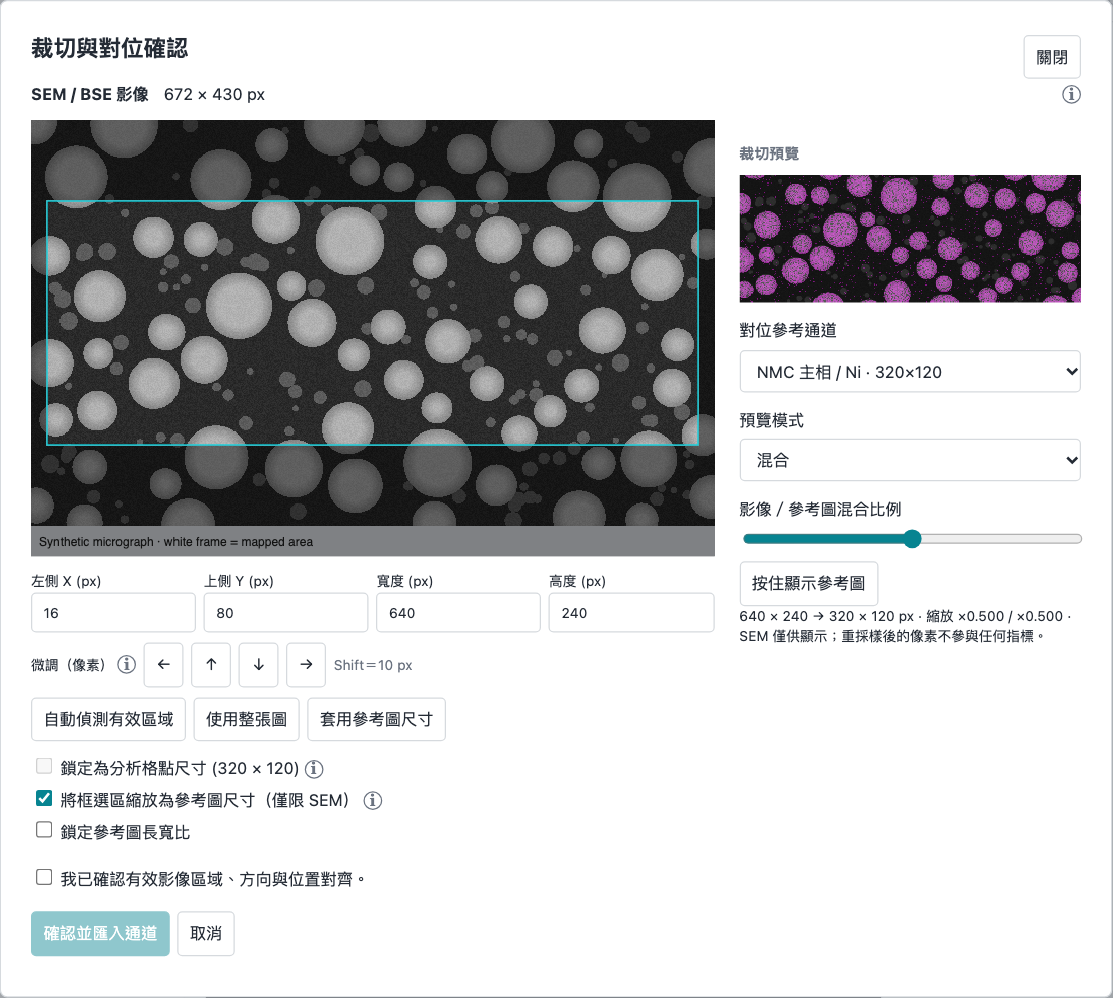
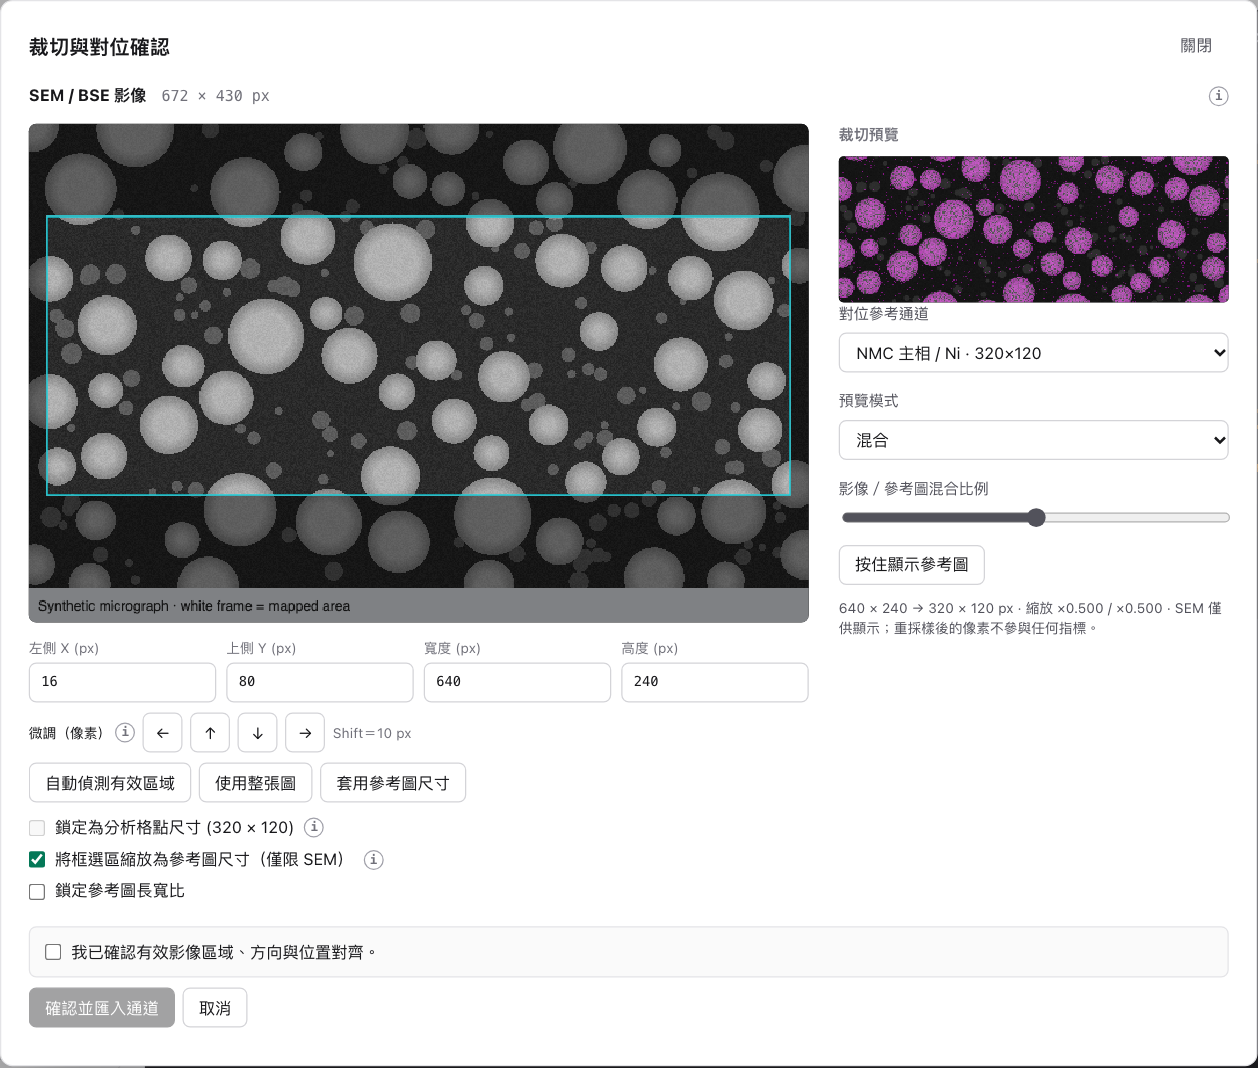
v0.4.0: documentation, screenshots and version
README describes the element tabs, the trend charts, the optional secondary
phase and the new places of the project and example actions; screenshots
regenerated from synthetic data, now with a carbon map. CHANGELOG,
algorithms, requirement updates and validation record v0.4.0.

diff --git a/dist/Electrode_EDS_Analyzer.html b/dist/Electrode_EDS_Analyzer.html
@@ -1199,6 +1199,10 @@ dialog h2 {
   font-size: 11px;
   color: var(--ink-3);
 }
+.crop-coordinates input,
+.crop-scale input {
+  color: var(--ink);
+}
 .crop-coordinates input {
   width: 100%;
   min-width: 0;
@@ -2245,6 +2249,8 @@ const HELP_ZH = {
     'SEM 只當底圖，不參與任何計算，所以可以縮放。請框出元素圖實際掃描的範圍（例如標示 Map Data 的白框），工具會把它縮放成與元素圖相同的尺寸。分析用影像永遠不縮放。',
   lockSize:
     '所有通道必須是相同的像素尺寸才能計算。勾選時裁切框固定為已載入影像的尺寸，拖曳只移動位置。只有要重新決定整組尺寸時才取消勾選。',
+  carbon:
+    'C 遮罩佔分析範圍的面積比例。注意 C 訊號不只來自導電碳：PVDF 黏結劑與 LFP 的碳包覆也含碳，判讀導電碳分散時請一併參考 F 與次要相的分布。',
   comparison:
     '把目前的結果加入比較表，換下一個樣品分析後再加入。比較表可以填入剝離強度等實驗值，並匯出 CSV。',
 };
@@ -2513,6 +2519,8 @@ HELP_EN.semFit =
 HELP_EN.lockSize =
   'Every channel must have the same pixel size before anything can be computed. While ticked, the crop box is fixed at the size of the analysis channels already loaded and dragging only moves it, so channels cannot end up a pixel or two apart. Untick only to redefine the size for the whole set.';
 Object.assign(HELP_EN, {
+  carbon:
+    'Share of the analysed area covered by the C mask. C counts do not come from conductive carbon alone: PVDF binder and the carbon coating of LFP contain carbon too, so read carbon dispersion together with the F and secondary-phase maps.',
   area: 'Mask pixels divided by the pixels of the analysed area: the share of the image the element covers.',
   profileCV:
     'Cells in the same column (or row) are pooled into one share, and the columns (or rows) are compared. A large column spread means left and right differ; a large row spread means top and bottom differ, which on a cross section is the change through the thickness.',
@@ -3644,7 +3652,7 @@ if (typeof module !== 'undefined')
   };
 
 /* Shared application state, defaults and constants. */
-const VERSION = '0.3.0';
+const VERSION = '0.4.0';
 const { ANALYSIS_KEYS, MAX_PIXELS, GRID_OPTIONS } = Core;
 const $ = s => document.querySelector(s),
   esc = s =>
@@ -4012,6 +4020,7 @@ function renderChannels() {
       ? selected
       : Object.keys(state.channels)[0] || '';
   $('#dimensions').textContent = dimensions() ? `${dimensions().w} × ${dimensions().h} px` : '';
+  $('#channel').classList.toggle('hidden', !Object.keys(state.channels).length);
   renderElementChips();
   renderNotice();
 }
@@ -5043,7 +5052,7 @@ function wholeRegionFigures(r, key) {
   const e = r.elements[key],
     spread = `${kpi('Uniformity CV', fmt(e.uniformityCV), { help: 'cv', note: 'Cell-to-cell spread; lower is more even.' })}<div class="kpi-pair">${kpi('Column CV', fmt(e.columnCV), { help: 'profileCV', note: 'Left to right' })}${kpi('Row CV', fmt(e.rowCV), { help: 'profileCV', note: 'Top to bottom' })}</div>`;
   let html = kpi('Area fraction', fmt(e.areaFraction, true), {
-    help: key === 'secondary' ? 'secondary' : 'area',
+    help: { secondary: 'secondary', f: 'area', c: 'carbon' }[key],
     note: 'Share of the analysed area.',
     hero: true,
   });
@@ -5261,9 +5270,13 @@ function drawTrend(figure, c, scale, key, n) {
     };
   });
 }
+// A fitted image is fitted again to the new window, and the charts take the new width.
 addEventListener('resize', () => {
   clearTimeout(renderTrends.timer);
-  renderTrends.timer = setTimeout(renderTrends, 120);
+  renderTrends.timer = setTimeout(() => {
+    if ($('#zoom').value === 'fit') fit();
+    renderTrends();
+  }, 120);
 });
 
 /* Session snapshot, validation and reload. */

diff --git a/src/ui/i18n.js b/src/ui/i18n.js
@@ -183,6 +183,8 @@ const HELP_ZH = {
     'SEM 只當底圖，不參與任何計算，所以可以縮放。請框出元素圖實際掃描的範圍（例如標示 Map Data 的白框），工具會把它縮放成與元素圖相同的尺寸。分析用影像永遠不縮放。',
   lockSize:
     '所有通道必須是相同的像素尺寸才能計算。勾選時裁切框固定為已載入影像的尺寸，拖曳只移動位置。只有要重新決定整組尺寸時才取消勾選。',
+  carbon:
+    'C 遮罩佔分析範圍的面積比例。注意 C 訊號不只來自導電碳：PVDF 黏結劑與 LFP 的碳包覆也含碳，判讀導電碳分散時請一併參考 F 與次要相的分布。',
   comparison:
     '把目前的結果加入比較表，換下一個樣品分析後再加入。比較表可以填入剝離強度等實驗值，並匯出 CSV。',
 };
@@ -451,6 +453,8 @@ HELP_EN.semFit =
 HELP_EN.lockSize =
   'Every channel must have the same pixel size before anything can be computed. While ticked, the crop box is fixed at the size of the analysis channels already loaded and dragging only moves it, so channels cannot end up a pixel or two apart. Untick only to redefine the size for the whole set.';
 Object.assign(HELP_EN, {
+  carbon:
+    'Share of the analysed area covered by the C mask. C counts do not come from conductive carbon alone: PVDF binder and the carbon coating of LFP contain carbon too, so read carbon dispersion together with the F and secondary-phase maps.',
   area: 'Mask pixels divided by the pixels of the analysed area: the share of the image the element covers.',
   profileCV:
     'Cells in the same column (or row) are pooled into one share, and the columns (or rows) are compared. A large column spread means left and right differ; a large row spread means top and bottom differ, which on a cross section is the change through the thickness.',

diff --git a/src/app/results.js b/src/app/results.js
@@ -25,7 +25,7 @@ function wholeRegionFigures(r, key) {
   const e = r.elements[key],
     spread = `${kpi('Uniformity CV', fmt(e.uniformityCV), { help: 'cv', note: 'Cell-to-cell spread; lower is more even.' })}<div class="kpi-pair">${kpi('Column CV', fmt(e.columnCV), { help: 'profileCV', note: 'Left to right' })}${kpi('Row CV', fmt(e.rowCV), { help: 'profileCV', note: 'Top to bottom' })}</div>`;
   let html = kpi('Area fraction', fmt(e.areaFraction, true), {
-    help: key === 'secondary' ? 'secondary' : 'area',
+    help: { secondary: 'secondary', f: 'area', c: 'carbon' }[key],
     note: 'Share of the analysed area.',
     hero: true,
   });
@@ -243,7 +243,11 @@ function drawTrend(figure, c, scale, key, n) {
     };
   });
 }
+// A fitted image is fitted again to the new window, and the charts take the new width.
 addEventListener('resize', () => {
   clearTimeout(renderTrends.timer);
-  renderTrends.timer = setTimeout(renderTrends, 120);
+  renderTrends.timer = setTimeout(() => {
+    if ($('#zoom').value === 'fit') fit();
+    renderTrends();
+  }, 120);
 });

diff --git a/src/app/shell.js b/src/app/shell.js
@@ -106,6 +106,7 @@ function renderChannels() {
       ? selected
       : Object.keys(state.channels)[0] || '';
   $('#dimensions').textContent = dimensions() ? `${dimensions().w} × ${dimensions().h} px` : '';
+  $('#channel').classList.toggle('hidden', !Object.keys(state.channels).length);
   renderElementChips();
   renderNotice();
 }

diff --git a/src/styles.css b/src/styles.css
@@ -1199,6 +1199,10 @@ dialog h2 {
   font-size: 11px;
   color: var(--ink-3);
 }
+.crop-coordinates input,
+.crop-scale input {
+  color: var(--ink);
+}
 .crop-coordinates input {
   width: 100%;
   min-width: 0;

diff --git a/docs/validation.md b/docs/validation.md
@@ -1,6 +1,6 @@
 # Validation
 
-最新驗證見文末「v0.2.0」。以下各節依版本保留原始紀錄；其中引用的 `/workspace/...` 路徑屬當時的建置環境，未隨交接包提供。
+最新驗證見文末「v0.4.0」。以下各節依版本保留原始紀錄；其中引用的 `/workspace/...` 路徑屬當時的建置環境，未隨交接包提供。
 
 ## v0.1.0
 
@@ -141,3 +141,15 @@ Intentional deviations：使用可追溯合成影像與真实計算 KPI，未使
 `tests/browser/legacy-session.cjs`：v0.1.3 的 Session 載入後平均半徑為 0，v0.1.3 回報的所有數值不變（每格新增的欄位另行檢查）。其餘腳本改為三步驟流程；`imports.cjs` 的數值基準在關閉平均後與原值相同。
 
 真實樣本走查（不納入版控）：Fe／Ni／F／C 四張報表圖的比例尺皆被找到（52 px），輸入 25 μm 得 0.4808 μm/pixel；Ni 遮罩覆蓋率 58.9%，與 SEM 顆粒位置相符；分析、網格與點格顯示正常。
+
+## v0.4.0 元素分頁、趨勢圖與版面
+
+2026-10-15，環境同 v0.2.0。55 項單元測試與 10 支瀏覽器腳本全數通過，0 page error、0 外部請求。
+
+新增單元測試 `tests/unit/elements.test.cjs`（5 項）：6×6、3×3 網格的手算案例核對 F、C 的面積比例、欄與列比例（以像素加權）、欄間與列間 CV、落在顆粒之間的比例與每格比例；次要相的新區塊與既有數值一致；ROI 缺一整欄時該欄為 `null` 而非 0；沒有次要相時次要相數值為 `null` 而 F、C 照常計算，三者皆無時拒絕分析；管線分割並分析 C；截面三層的 C 比例。
+
+新增瀏覽器腳本 `tests/browser/elements.cjs`：空白頁的起點說明與合成範例；已載入影像時從選單載入範例會先詢問；結果欄只在分析步驟出現；三個元素分頁，切換後網格數字、主要數值與趨勢圖跟著換；趨勢圖每張 5 條細線與 5 個整欄點，說明列的數值與計算結果相同，滑鼠移到細線時顯示該列，點格後標出該格的列與欄；移除次要相後 F、C 仍可分析，比較表與 CSV 接受空值，新欄位位於原有欄位之後；移除主相時顯示原因。
+
+`tests/browser/legacy-session.cjs`：v0.1.3 回報的所有數值仍相同（新增的 `elements`、`cPixels` 另行檢查）；C 的平均半徑為目前預設值。其餘腳本依新版面更新選擇器與文字（步驟切換改點頂端步驟、設定與關於改由選單開啟、合成範例的入口）。
+
+真實樣本走查（不納入版控）：依「SEM → Fe → Ni → F → C」選檔，C 放入新的導電碳通道；比例尺 52 px、輸入 25 μm 得 0.4808 μm/pixel，加入 C 與重新裁切後尺度不變；8×8 網格下 Fe／F／C 的面積比例為 30.6%／33.0%／31.6%，均勻性 CV 0.61／0.54／0.51。1440×900 與 1280×720 版面皆可完整顯示影像、趨勢圖與結果欄。這只驗證軟體流程，不構成實驗結論。

diff --git a/CHANGELOG.md b/CHANGELOG.md
@@ -1,5 +1,32 @@
 # Changelog
 
+## v0.4.0 — 2026-10-15
+
+實機試用回饋：版面雜亂、提示文字過多且中英混雜；「載入專案」「合成範例」意義不明；分析頁只呈現次要相，缺少黏結劑（F）與導電碳（C）的分布判斷，也缺少各欄、各列的趨勢。
+
+### 分析
+
+- 新增「導電碳 / C」分析通道。黏結劑 F 與導電碳 C 和次要相一樣，報告面積比例、分布均勻性 CV、落在顆粒之間的比例；截面另有上、中、下三層比較。
+- 每個元素新增「欄間差異 CV」與「列間差異 CV」：同一欄（列）合併後的面積比例在各欄（列）之間的差異，對應左右與上下方向的梯度。
+- 次要相改為選填：沒有添加物的基準電極只放 Ni、F、C 也能分析，次要相相關指標為空值。
+- 次要相、F 原有的數值不變；舊版專案載入後結果相同。
+
+### 介面
+
+- 重新設計版面：頂端顯示三個步驟與「開啟專案」「儲存專案」「匯出」，其餘選項收在「⋯」選單；影像區為深色；分析結果欄只在分析步驟出現。
+- 分析結果依元素分頁（次要相／黏結劑 F／導電碳 C），網格數字、遮罩疊圖與趨勢圖隨分頁切換。
+- 影像下方新增趨勢圖：「各欄 · 左 → 右」每一列格子一條細線、整欄比例一條粗線；「各列 · 上 → 下」同理。滑鼠移到細線上列出該列（欄）各格數值；點選的格子所在的列與欄以深色標出。
+- 資料步驟改為每個通道一列，標明必填、選填或僅顯示；「載入專案」移到頂端並改名「開啟專案」。
+- 合成範例改在空白影像區與「⋯」選單提供，並註明為程式產生的影像；已載入影像時會先詢問是否取代。
+- 「分析」按鈕改為「重新計算」，「加入比較」改為「加入目前結果」，比較區加上說明。
+- 所有說明（ⓘ）改寫為中文，移除英文術語；提示文字縮短為一行。
+
+### 匯出
+
+- CSV 在原有欄位之後新增 `FAreaFraction`、`FUniformityCV`、`FColumnCV`、`FRowCV`、`CAreaFraction`、`CUniformityCV`、`CColumnCV`、`CRowCV`、`SecondaryColumnCV`、`SecondaryRowCV`、`CDepthCV`、`Elements`；原有欄位位置不變。
+- 比較表新增 F CV、C CV 兩欄。
+- 疊圖 PNG 依目前分頁的元素標示格內數字，並註明是哪個元素。
+
 ## v0.3.0 — 2026-10-14
 
 實機試用回饋：比例尺在裁切後已不在圖內，無法校正；「分析區域」「影像分割」不知是否該用；分析結果不易判讀。另以樣本圖檢查發現，逐像素取閾值的自動遮罩在稀疏計數的元素圖上幾乎是雜訊。

diff --git a/docs/requirement-updates.md b/docs/requirement-updates.md
@@ -97,3 +97,26 @@ Windows／VDI 實機操作（含本版新增的對位操作）、實驗影像的
 
 - 比例尺偵測只以這一種報表版面（線段加兩端刻度）與合成圖驗證。
 - 平均半徑 2 px 是依這一組影像選定；倍率或計數密度差異大的影像可能需要調整。
+
+# v0.4.0 需求補充
+
+來源：使用者實機試用 v0.3.0 後的回饋（2026-10-15）。
+
+## 黏結劑與導電碳的分布
+
+F 分布是否均勻是判斷內聚力的指標之一，C 用來判斷導電碳的分散程度，因此分析結果不應只呈現次要相。新增「導電碳 / C」分析通道；F、C 與次要相使用同一組分布指標（面積比例、均勻性 CV、欄間與列間差異、落在顆粒之間的比例）。注意 C 訊號也來自 PVDF 與 LFP 的碳包覆，判讀時需對照 F 與次要相。
+
+沒有添加物的基準電極也需要比較 F 與 C，因此次要相改為選填（使用者確認）。主相仍為必填。
+
+## 各欄與各列的趨勢
+
+使用者希望看到水平方向每一欄、垂直方向每一列的百分比變化，例如 8×8 網格時兩個方向各 8 條趨勢線。採用的呈現：每張圖畫出全部 8 條細灰線（每列或每欄一條），另以粗的彩色線畫整欄（整列）合併的比例；滑鼠所指的線與點選格子所在的列、欄以深色標出。這樣既保留 8 條線，又不必用 8 種顏色區分（超過 7 種顏色時難以分辨，且與元素顏色衝突）。
+
+## 版面與文字
+
+版面重新設計，不沿用原版面。提示文字縮為一行；說明（ⓘ）改為中文，只保留元素符號、單位與儀器名稱。「載入專案」移到頂端並改名「開啟專案」；合成範例放在空白影像區與選單，註明為程式產生的影像，取代已載入影像前先詢問。
+
+## 尚待驗收
+
+- 版面在 VDI 的 Chrome／Edge 版本上尚未實測；已避免較新的 CSS 語法。
+- C 分布與導電碳分散的對應關係需以實驗確認。
